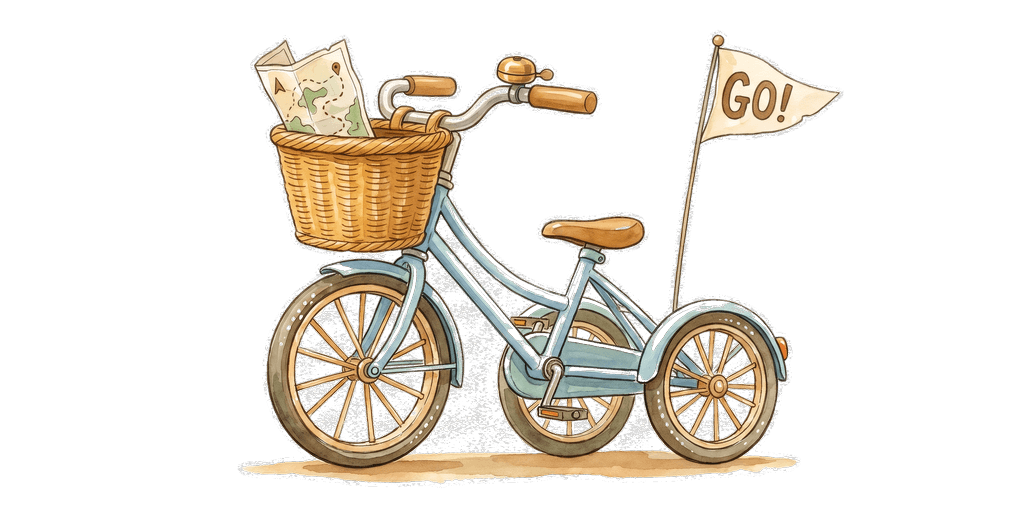
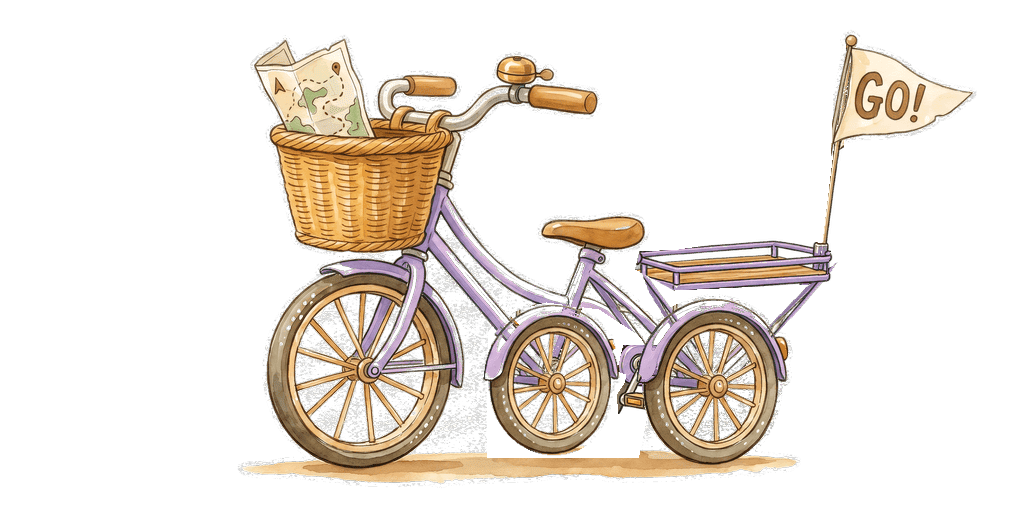
feat(assets): Trikey's portrait, with her rack and her lilac nine points darker
Round two of her repaint came back right in every respect but one: the lilac measured (192,162,204), L 175.8, against a brief of (180,152,196), L 165.4. That put her 16 points from Big Tilly on the greyscale ladder against a threshold of 20.

The fix is a palette shift, not a regeneration. The portrait is 8-bit indexed and the lilac is its own island in the palette (hue 277-324, nothing between 324 and 25), so one per-channel gain on those 21 entries lands the median exactly on the target. Verified pixel by pixel against round two: 15,048 pixels changed, all of them lilac and none missed; alpha, geometry, wicker, saddle, wheels and pennant identical. tools/correct-trikey-lilac.py does it and checks itself.

All ten fleet pairs now clear both thresholds (colour distance above 60, grey gap above 20): tightest 86.9 and 26.4, the latter Trikey against Big Tilly. Her right margin goes 181 to 48 px because of the rack and pennant, so anything sized from her width wants the re-measure the 2026-10-09 note lists.

Replaces the duck-egg portrait with no rack (dd7d18d). 43 palette entries at alpha 253-254 are left alone, the brief being the lilac only.

Changed region(s): [[0.3125, 0.0625, 0.9688, 0.9062], [0.6875, 0.8125, 0.7188, 0.8438]]

diff --git a/tools/correct-trikey-lilac.py b/tools/correct-trikey-lilac.py
@@ -1,0 +1,147 @@
+#!/usr/bin/env python3
+"""Bring Trikey's lilac down to the lightness the fleet's greyscale ladder needs.
+
+    python3 tools/correct-trikey-lilac.py                       # round 2 -> installed
+    python3 tools/correct-trikey-lilac.py --dry-run
+    python3 tools/correct-trikey-lilac.py --src X.png --out Y.png
+
+The round-2 portrait (`manus-output/trikey-portrait/round2-lilac/`) came back
+correct in every respect but one. Its lilac frame measures median
+(192, 162, 204), L 174.6, against a brief that asked for (180, 152, 196),
+L 165.4. That puts her 17.4 from Big Tilly on the lightness ladder, under the
+threshold of 20, and the ladder is what lets a child who cannot tell colours
+apart tell the vehicles apart.
+
+This is a palette shift, not a repaint. The portrait is an 8-bit indexed PNG,
+and the lilac is its own island in the palette: hue 277-324, with nothing at
+all between 324 and 25 (wicker, saddle, wheels and pennant start there) and
+four pixels between 180 and 277. So the lilac can be selected by palette entry,
+exactly, and nothing else can be caught by accident.
+
+**What changes.** The RGB of the in-band palette entries, by one per-channel
+gain chosen so that the lilac median lands on the target. A gain rather than
+an offset, so black stays near black and the shading inside the lilac keeps
+its proportions; the lightest highlight and the darkest shadow move the same
+way as the middle.
+
+**What does not.** Every pixel's palette index, so the geometry is identical.
+The whole tRNS table, so every alpha is identical, including the 253-254 that
+the quantiser left on 43 entries (21,144 pixels). Every palette entry outside
+the band, so wicker, saddle, wheels, pennant and ink are byte-identical. The
+tool checks all three after writing and refuses to leave a file behind that
+fails them.
+
+The 253-254 alphas are deliberately left alone: the brief was the lilac only.
+`install-crates.py` forces entries at alpha >= 240 to 255; if that is wanted
+here it is a separate, one-line change, and is invisible at 1% in any case.
+"""
+import argparse
+import colorsys
+import os
+import sys
+
+import numpy as np
+from PIL import Image
+
+ROOT = '/Users/marcus/Projects/animal-rescue-centre'
+SRC = f'{ROOT}/manus-output/trikey-portrait/round2-lilac/vehicle-trikey.png'
+OUT = f'{ROOT}/apps/game/public/assets/driving/vehicles/vehicle-trikey.png'
+
+TARGET = (180, 152, 196)     # lilac mid-tone: hue 278, saturation 0.22, L 165.4
+BAND = (255.0, 330.0)        # degrees; the island is 277-324
+MIN_SAT = 0.08               # keeps the grey-teal specks at hue 180 out of it
+
+
+def hsv(rgb):
+    h, s, v = colorsys.rgb_to_hsv(*[c / 255 for c in rgb])
+    return h * 360, s, v * 255
+
+
+def luma(rgb):
+    return 0.299 * rgb[0] + 0.587 * rgb[1] + 0.114 * rgb[2]
+
+
+def in_band(rgb):
+    h, s, _ = hsv(rgb)
+    return BAND[0] <= h <= BAND[1] and s > MIN_SAT
+
+
+def read(path):
+    im = Image.open(path)
+    if im.mode != 'P':
+        sys.exit(f'{path}: expected an indexed (P) PNG, got {im.mode}')
+    pal = np.array(im.getpalette()[:768] + [0] * (768 - len(im.getpalette()))).reshape(-1, 3)
+    tr = bytes(im.info.get('transparency', b''))
+    alpha = np.full(256, 255, int)
+    alpha[:len(tr)] = list(tr)
+    return im, pal, tr, alpha
+
+
+def lilac_median(im, pal, alpha):
+    """Pixel-weighted per-channel median of the opaque lilac, as the note measured it."""
+    idx = np.array(im)
+    counts = np.bincount(idx.ravel(), minlength=256)
+    entries = [i for i in range(256) if counts[i] and alpha[i] >= 128 and in_band(pal[i])]
+    px = np.concatenate([np.repeat(pal[i][None, :], counts[i], 0) for i in entries])
+    return np.median(px, axis=0), entries, counts
+
+
+def main():
+    ap = argparse.ArgumentParser()
+    ap.add_argument('--src', default=SRC)
+    ap.add_argument('--out', default=OUT)
+    ap.add_argument('--dry-run', action='store_true')
+    args = ap.parse_args()
+
+    im, pal, tr, alpha = read(args.src)
+    med, entries, counts = lilac_median(im, pal, alpha)
+    gain = np.array(TARGET) / med
+    n_opaque = int(counts[alpha >= 128].sum())
+    n_lilac = int(counts[entries].sum())
+    print(f'lilac: {len(entries)} palette entries, {n_lilac} px = {100 * n_lilac / n_opaque:.2f}% of opaque')
+    print(f'  median now  {tuple(int(v) for v in med)}  L {luma(med):.1f}  hue {hsv(med)[0]:.1f}  sat {hsv(med)[1]:.3f}')
+    print(f'  target      {TARGET}  L {luma(TARGET):.1f}  hue {hsv(TARGET)[0]:.1f}  sat {hsv(TARGET)[1]:.3f}')
+    print(f'  gain        ({gain[0]:.4f}, {gain[1]:.4f}, {gain[2]:.4f})')
+
+    # Every entry the pixels might use, not only the opaque ones: the soft edge
+    # of the frame is lilac too. Fully transparent entries have no pixels worth
+    # moving and are left as they came.
+    band_all = [i for i in range(256) if counts[i] and alpha[i] > 0 and in_band(pal[i])]
+    new_pal = pal.copy()
+    for i in band_all:
+        new_pal[i] = np.clip(np.rint(pal[i] * gain), 0, 255).astype(int)
+    print(f'  shifting {len(band_all)} entries ({len(band_all) - len(entries)} are soft-edge, alpha < 128)')
+
+    if args.dry_run:
+        print('dry run: nothing written')
+        return
+
+    out = im.copy()
+    out.putpalette([int(v) for v in new_pal.reshape(-1)])
+    tmp = args.out + '.tmp.png'
+    out.save(tmp, transparency=tr, optimize=True)
+
+    # Verify: indices, alpha and every out-of-band entry unchanged.
+    chk, pal2, tr2, alpha2 = read(tmp)
+    problems = []
+    if not np.array_equal(np.array(im), np.array(chk)):
+        problems.append('pixel indices changed')
+    if tr != tr2:
+        problems.append('tRNS (alpha) table changed')
+    for i in range(256):
+        same = np.array_equal(pal[i], pal2[i])
+        if i in band_all and same and not np.array_equal(pal[i], new_pal[i]):
+            problems.append(f'entry {i} was not shifted')
+        if i not in band_all and not same:
+            problems.append(f'entry {i} changed but is outside the band')
+    if problems:
+        os.remove(tmp)
+        sys.exit('REFUSED: ' + '; '.join(problems))
+    med2, _, _ = lilac_median(chk, pal2, alpha2)
+    os.replace(tmp, args.out)
+    print(f'  median after {tuple(int(v) for v in med2)}  L {luma(med2):.1f}  hue {hsv(med2)[0]:.1f}  sat {hsv(med2)[1]:.3f}')
+    print(f'wrote {args.out} ({os.path.getsize(args.out) // 1024} KB); indices, alpha and out-of-band palette verified identical')
+
+
+if __name__ == '__main__':
+    main()
